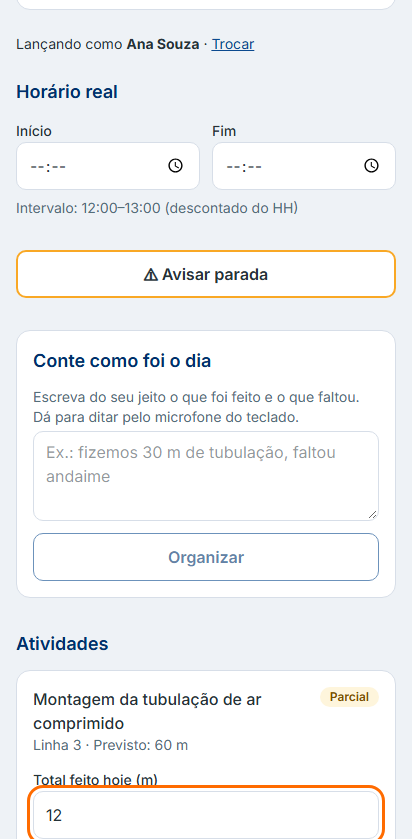
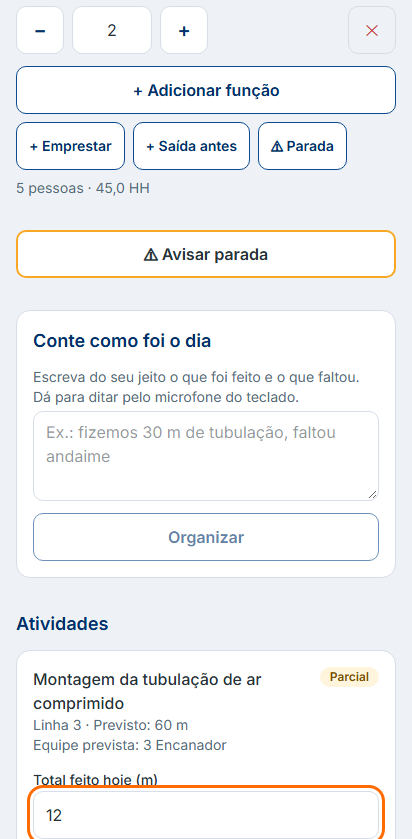
docs(ajuda): efetivo previsto; test(e2e): efetivo previsto e ajustes do responsável obrigatório

diff --git a/tests/e2e/efetivo-previsto.spec.ts b/tests/e2e/efetivo-previsto.spec.ts
@@ -1,0 +1,61 @@
+import { devices, expect, test } from "@playwright/test";
+import { criarObra } from "@/lib/db/obras";
+import { criarRascunho, programarSemana, salvarAtividadeProgramada } from "@/lib/db/programacao";
+import { aplicarAcao, criarTurno } from "@/lib/db/turnos";
+import { inicioDaSemana } from "@/lib/dominio/analise";
+import { diaDaSemana, type DiaSemana } from "@/lib/dominio/programacao";
+import { criarClienteAdmin } from "@/lib/supabase/admin";
+import { criarUsuarioTeste, removerUsuarioTeste, type UsuarioTeste } from "../integracao/ajuda";
+
+test.skip(process.env.SUPABASE_TEST !== "1", "E2E usa o Supabase de desenvolvimento (SUPABASE_TEST=1)");
+
+let u: UsuarioTeste | undefined;
+test.afterAll(async () => {
+  if (u) await removerUsuarioTeste(u.userId);
+});
+const hojeSP = () => new Intl.DateTimeFormat("en-CA", { timeZone: "America/Sao_Paulo" }).format(new Date());
+function exigir<T>(r: { ok: true; dados: T } | { ok: false; erro: string }): T {
+  if (!r.ok) throw new Error(r.erro);
+  return r.dados;
+}
+
+test("efetivo da Ana começa com a equipe prevista e só grava ao confirmar; −/+ ajusta", async ({ browser, request }) => {
+  test.setTimeout(240_000);
+  const hoje = hojeSP();
+  const inicio = inicioDaSemana(hoje);
+  const dia = diaDaSemana(inicio, hoje)! as DiaSemana;
+  u = await criarUsuarioTeste();
+  const obra = exigir(await criarObra(u.cliente, { nome: "Obra Efetivo Previsto E2E" }));
+  const { data: r } = await u.cliente.from("responsaveis").insert({ obra_id: obra.id, nome: "Ana Souza" }).select("id").single();
+  const ana = r!.id as string;
+  const semana = exigir(await criarRascunho(u.cliente, obra.id, inicio));
+  exigir(await salvarAtividadeProgramada(u.cliente, semana.id, {
+    descricao: "Solda da linha 4", unidade: "jt", meta: 10, dias: [dia], periodo: "diurno",
+    equipe: [{ funcao: "Soldador", quantidade: 2 }], responsavel_id: ana,
+  }));
+  exigir(await programarSemana(u.cliente, semana.id));
+  const turno = exigir(await criarTurno(u.cliente, { obra_id: obra.id, data: hoje, periodo: "diurno", hora_inicio_prevista: "07:00", hora_fim_prevista: "17:00" }));
+  const { token } = exigir(await aplicarAcao(u.cliente, turno.id, "liberar")) as { token: string };
+  await request.get(`/t/${token}?r=${ana}`);
+  const efetivoNoBanco = async () =>
+    ((await criarClienteAdmin().from("efetivo").select("funcao, quantidade").eq("turno_id", turno.id)).data ?? []);
+
+  const ctx = await browser.newContext({ ...devices["Pixel 7"] });
+  const cel = await ctx.newPage();
+  await cel.goto(`/t/${token}?r=${ana}`);
+  await expect(cel.getByText("Equipe prevista: 2 Soldador")).toBeVisible();
+  await expect(cel.getByText("Previsto pela programação — confirme ou ajuste")).toBeVisible();
+  await expect(cel.getByLabel("Quantidade")).toHaveValue("2");
+  expect(await efetivoNoBanco()).toEqual([]);
+
+  await cel.getByRole("button", { name: "Confirmar equipe" }).click();
+  await expect(cel.getByText("Previsto pela programação — confirme ou ajuste")).toBeHidden();
+  await expect.poll(efetivoNoBanco, { timeout: 20_000 }).toEqual([{ funcao: "Soldador", quantidade: 2 }]);
+
+  await cel.getByRole("button", { name: "Aumentar" }).click();
+  await expect.poll(efetivoNoBanco, { timeout: 20_000 }).toEqual([{ funcao: "Soldador", quantidade: 3 }]);
+  await cel.reload();
+  await expect(cel.getByLabel("Quantidade")).toHaveValue("3");
+  await expect(cel.getByText("Previsto pela programação — confirme ou ajuste")).toBeHidden();
+  await ctx.close();
+});

diff --git a/tests/integracao/atividade-equipe.test.ts b/tests/integracao/atividade-equipe.test.ts
@@ -22,7 +22,7 @@ describe.skipIf(!ligado)("equipe prevista da atividade", () => {
     return r.dados;
   };
 
-  it("avulsa grava a própria equipe; programada lê a da programação; quadro também", async () => {
+  it("avulsa grava a própria equipe; programada lê a da programação; quadro também", { timeout: 90_000 }, async () => {
     const obra = exigir(await criarObra(u.cliente, { nome: "Obra Equipe" }));
     const ana = exigir(await criarResponsavel(u.cliente, obra.id, { nome: "Ana Souza" })).id;
     const semana = exigir(await criarRascunho(u.cliente, obra.id, "2026-11-16"));
@@ -46,10 +46,11 @@ describe.skipIf(!ligado)("equipe prevista da atividade", () => {
       .toMatchObject({ ok: false, erro: "Informe a função de cada linha da equipe" });
   });
 
-  it("extra do campo grava a equipe na atividade do responsável do link", async () => {
+  it("extra do campo grava a equipe na atividade do responsável do link", { timeout: 90_000 }, async () => {
     const obra = exigir(await criarObra(u.cliente, { nome: "Obra Extra Equipe" }));
     const rita = exigir(await criarResponsavel(u.cliente, obra.id, { nome: "Rita Alves" })).id;
     const t = exigir(await criarTurno(u.cliente, { obra_id: obra.id, data: "2026-11-18", periodo: "diurno", hora_inicio_prevista: "07:00", hora_fim_prevista: "17:00" }));
+    exigir(await adicionarAtividade(u.cliente, t.id, { descricao: "Base", unidade: "un", qtd_planejada: 1, responsavel_id: rita }));
     const l = exigir(await aplicarAcao(u.cliente, t.id, "liberar")) as { token: string };
     const id = crypto.randomUUID();
     exigir(await lancarExtraCampo(l.token, { id, descricao: "Reparo", unidade: "un", qtd: 1, equipe: [{ funcao: "Eletricista", quantidade: 2 }] }, rita));
@@ -57,14 +58,5 @@ describe.skipIf(!ligado)("equipe prevista da atividade", () => {
     const extra = turno?.atividades.find((a) => a.id === id);
     expect(extra?.responsavel_id).toBe(rita);
     expect(extra?.equipe).toEqual([{ funcao: "Eletricista", quantidade: 2 }]);
-  });
-
-  it("turno fechado recusa mudar a equipe", async () => {
-    const obra = exigir(await criarObra(u.cliente, { nome: "Obra Fechada Equipe" }));
-    const t = exigir(await criarTurno(u.cliente, { obra_id: obra.id, data: "2026-11-18", periodo: "diurno", hora_inicio_prevista: "07:00", hora_fim_prevista: "17:00" }));
-    const a = exigir(await adicionarAtividade(u.cliente, t.id, { descricao: "Y", unidade: "un", qtd_planejada: 1 }));
-    await criarClienteAdmin().from("turnos").update({ status: "fechado" }).eq("id", t.id);
-    const { error } = await u.cliente.from("atividades").update({ equipe: [{ funcao: "Pintor", quantidade: 1 }] }).eq("id", a.id);
-    expect(error?.message).toContain("turno_fechado");
   });
 });

diff --git a/tests/e2e/ciclo-turno.spec.ts b/tests/e2e/ciclo-turno.spec.ts
@@ -59,6 +59,16 @@ test("ciclo completo do turno: planejar, liberar, lançar no campo, fechar e bai
     await page.getByLabel("Quantidade").fill(qtd);
     await page.getByLabel("Unidade").fill(unidade);
     await page.getByRole("button", { name: "Adicionar atividade" }).click();
+    if (descricao === "Concretagem laje") {
+      // Responsável é obrigatório: sem ele, o formulário avisa e não adiciona.
+      await expect(page.getByText("Escolha o responsável")).toBeVisible();
+      const menu = page.getByLabel("Responsável").last();
+      await menu.selectOption("__novo__");
+      await page.getByLabel("Nome do novo responsável").fill("Ana Souza");
+      await page.getByRole("button", { name: "Adicionar", exact: true }).click();
+      await expect(menu.locator("option:checked")).toHaveText("Ana Souza");
+      await page.getByRole("button", { name: "Adicionar atividade" }).click();
+    }
     await expect(page.getByText(descricao).first()).toBeVisible();
     await expect(page.getByLabel("Descrição")).toHaveValue("");
   }
@@ -96,9 +106,9 @@ test("ciclo completo do turno: planejar, liberar, lançar no campo, fechar e bai
   const ctx = await browser.newContext({ ...devices["Pixel 7"] });
   try {
     const campo = await ctx.newPage();
-    await campo.goto(urlCampo!);
+    await campo.goto(`${urlCampo!}?r=todos`);
     const campo2 = await ctx.newPage();
-    await campo2.goto(urlCampo!);
+    await campo2.goto(`${urlCampo!}?r=todos`);
     const salvo = (secao: string) =>
       expect(campo.locator(`section[aria-labelledby="${secao}"]`).getByText("Salvo ✓").first()).toBeVisible({ timeout: 15_000 });
 

diff --git a/app/(app)/obras/[obraId]/turnos/[turnoId]/ListaAtividades.tsx b/app/(app)/obras/[obraId]/turnos/[turnoId]/ListaAtividades.tsx
@@ -1,6 +1,6 @@
 "use client";
 
-import { Fragment, useActionState } from "react";
+import { Fragment, useActionState, useState } from "react";
 import { Aviso } from "@/components/ui/Aviso";
 import { Botao } from "@/components/ui/Botao";
 import { Cartao } from "@/components/ui/Cartao";
@@ -32,6 +32,8 @@ export function ListaAtividades({
   sugestoesFuncao?: string[];
 }) {
   const [estado, action, pendente] = useActionState<EstadoAcao, FormData>(trazerPendentesAcao, null);
+  // Incluir várias atividades seguidas: o formulário novo já vem com o último responsável escolhido.
+  const [ultimoResponsavel, setUltimoResponsavel] = useState<string | null>(null);
   const [estadoProg, actionProg, pendenteProg] = useActionState<EstadoAcao, FormData>(trazerDaProgramacaoAcao, null);
   const agrupar = atividades.some((a) => a.responsavel_id !== null);
   const nomeDe = (id: string | null) =>
@@ -93,7 +95,7 @@ export function ListaAtividades({
 
       <Cartao>
         <h2 className="mb-3 text-lg font-semibold text-primaria">Adicionar atividade</h2>
-        <FormAtividade key={atividades.length} turnoId={turnoId} obraId={obraId} responsaveis={responsaveis} sugestoesFuncao={sugestoesFuncao} />
+        <FormAtividade key={atividades.length} turnoId={turnoId} obraId={obraId} responsaveis={responsaveis} sugestoesFuncao={sugestoesFuncao} responsavelInicial={ultimoResponsavel} aoEscolherResponsavel={setUltimoResponsavel} />
       </Cartao>
     </div>
   );

diff --git a/tests/e2e/programacao.spec.ts b/tests/e2e/programacao.spec.ts
@@ -88,10 +88,10 @@ test("programação semanal: programar, executar no turno, encerrar e ver o PPC"
     await card.getByRole("button", { name: "Não vai dar para concluir? Informar causa" }).click();
     await card.getByLabel("Causa do não cumprimento").selectOption({ label: "Falta material" });
     await expect(card.getByText("Salvo ✓")).toBeVisible({ timeout: 15_000 });
-    await campo.getByRole("button", { name: "+ Adicionar função" }).click();
-    // Menu traz a função programada para o turno
-    await campo.getByLabel("Função").selectOption("Caldeireiro");
-    await campo.getByLabel("Quantidade").fill("2");
+    // Efetivo já vem com a equipe programada (2 Caldeireiro): confirmar grava.
+    await expect(campo.getByText("Previsto pela programação — confirme ou ajuste")).toBeVisible();
+    await expect(campo.getByLabel("Função")).toHaveValue("Caldeireiro");
+    await campo.getByRole("button", { name: "Confirmar equipe" }).click();
     await salvo("titulo-efetivo");
     await campo.getByRole("button", { name: "Enviar turno" }).click();
     await expect(campo.getByText("Turno enviado ✓")).toBeVisible({ timeout: 15_000 });

diff --git a/app/(app)/obras/[obraId]/turnos/[turnoId]/FormAtividade.tsx b/app/(app)/obras/[obraId]/turnos/[turnoId]/FormAtividade.tsx
@@ -20,10 +20,17 @@ type Props = {
   obraId?: string;
   responsaveis?: ResponsavelRef[];
   sugestoesFuncao?: string[];
+  /** Responsável já escolhido (o último usado na inclusão anterior). */
+  responsavelInicial?: string | null;
+  aoEscolherResponsavel?: (id: string | null) => void;
 };
 
-export function FormAtividade({ turnoId, atividade, acao, aoCancelar, obraId, responsaveis, sugestoesFuncao = [] }: Props) {
-  const [responsavel, setResponsavel] = useState<string | null>(null);
+export function FormAtividade({ turnoId, atividade, acao, aoCancelar, obraId, responsaveis, sugestoesFuncao = [], responsavelInicial = null, aoEscolherResponsavel }: Props) {
+  const [responsavel, setResponsavelLocal] = useState<string | null>(responsavelInicial);
+  const setResponsavel = (id: string | null) => {
+    setResponsavelLocal(id);
+    aoEscolherResponsavel?.(id);
+  };
   const [equipe, setEquipe] = useState<LinhaEquipe[]>([LINHA_VAZIA]);
   const comEquipe = !atividade && obraId !== undefined && responsaveis !== undefined;
   const [estado, action, pendente] = useActionState<EstadoAcao, FormData>(acao ?? adicionarAtividadeAcao, null);

diff --git a/lib/ajuda/conteudo/check-in.ts b/lib/ajuda/conteudo/check-in.ts
@@ -30,7 +30,8 @@ export const checkIn: Capitulo = {
       id: "adicionar-atividade",
       titulo: "Adicione uma atividade",
       texto: [
-        "Para uma atividade que não está na programação, use \"Adicionar atividade\": \"Descrição\", \"Local (opcional)\", \"Quantidade\" planejada e \"Unidade\". Depois, escolha o responsável no menu \"Responsável\" da atividade.",
+        "Para uma atividade que não está na programação, use \"Adicionar atividade\": \"Descrição\", \"Local (opcional)\", \"Quantidade\" planejada e \"Unidade\". Escolha o \"Responsável\" (obrigatório) e, se quiser, a \"Equipe prevista\" (função e quantidade).",
+        "O efetivo de cada equipe já vem com a soma das equipes previstas das atividades dela. É só uma sugestão: confira e toque em \"Confirmar equipe\" ou ajuste com − e +. A mesma pessoa pode estar em duas atividades, por isso o número continua ajustável.",
         "Numa semana programada, atividade adicionada à mão aparece com o selo \"Avulsa\" e não entra no PPC.",
       ],
     },

diff --git a/lib/ajuda/conteudo/campo.ts b/lib/ajuda/conteudo/campo.ts
@@ -52,7 +52,8 @@ export const campo: Capitulo = {
       id: "efetivo",
       titulo: "Informe o efetivo",
       texto: [
-        "Em \"Efetivo\", confira as funções e quantas pessoas estão trabalhando. Use \"+ Adicionar função\" se faltar alguma.",
+        "O \"Efetivo\" fica logo abaixo do horário. Se o planejador previu a equipe, ela já aparece preenchida: confira e toque em \"Confirmar equipe\", ou ajuste a quantidade com os botões − e + (o ajuste já grava).",
+        "Enquanto você não confirma, a equipe prevista não conta no HH. Use \"+ Adicionar função\" se faltar alguma.",
         "Emprestou gente para outra equipe ou alguém saiu antes? Use \"+ Emprestar\" ou \"+ Saída antes\": assim o HH não conta em dobro.",
       ],
     },

diff --git a/lib/ajuda/novidades.ts b/lib/ajuda/novidades.ts
@@ -4,6 +4,11 @@ import type { Novidade } from "./tipos";
 export const NOVIDADES: Novidade[] = [
   {
     data: "2026-11-23",
+    texto: "O efetivo já vem com a equipe prevista: confirme ou ajuste com − e +.",
+    href: "/ajuda/campo#efetivo",
+  },
+  {
+    data: "2026-11-23",
     texto: "O que falta: no turno, veja por responsável o que ainda não foi registrado e cobre pelo WhatsApp com um toque.",
     href: "/ajuda/durante-o-turno#o-que-falta",
   },
